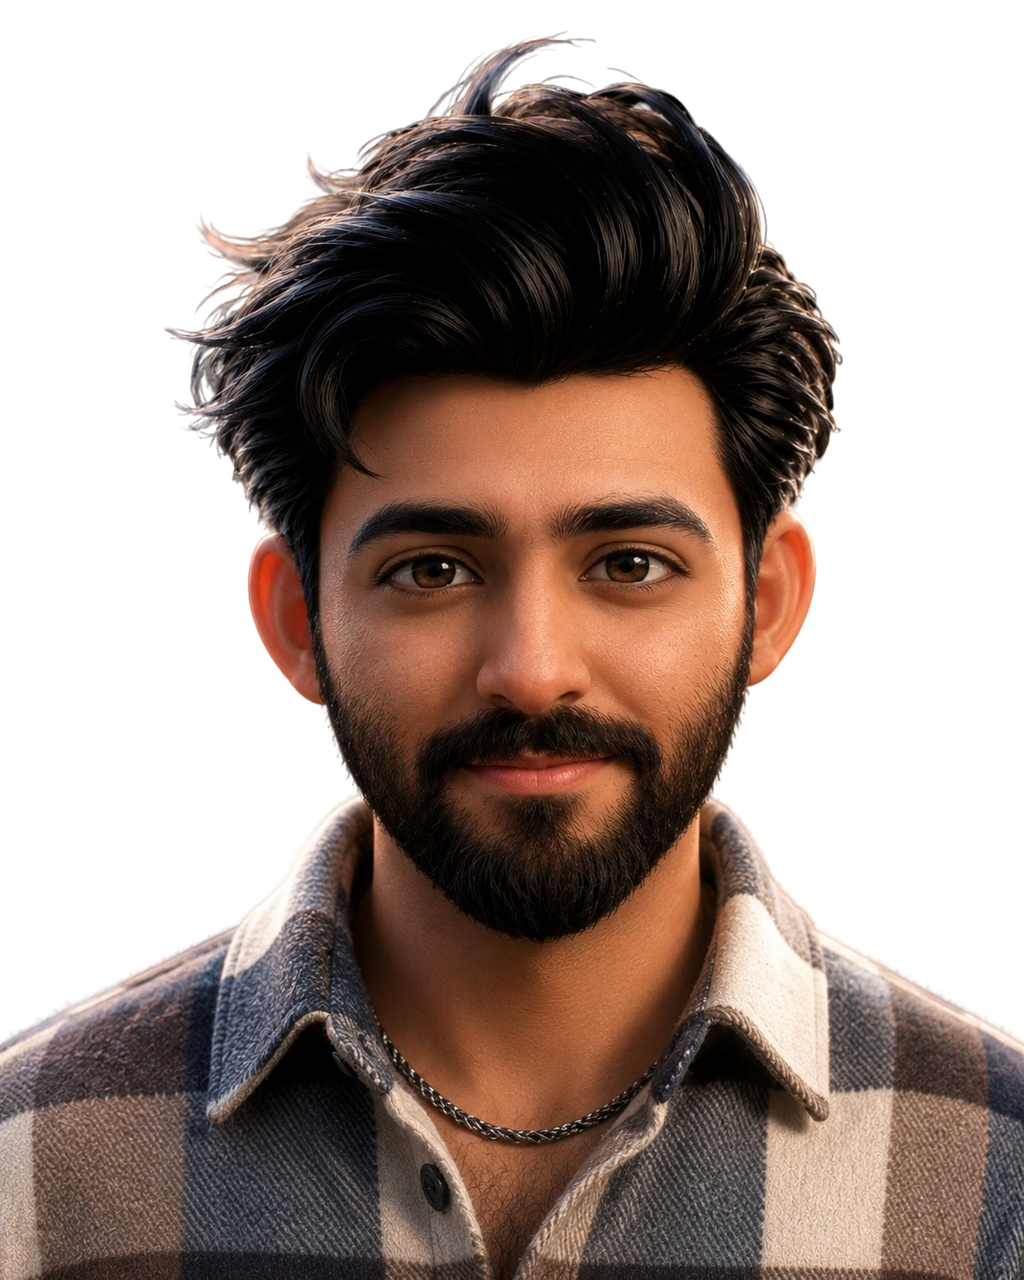
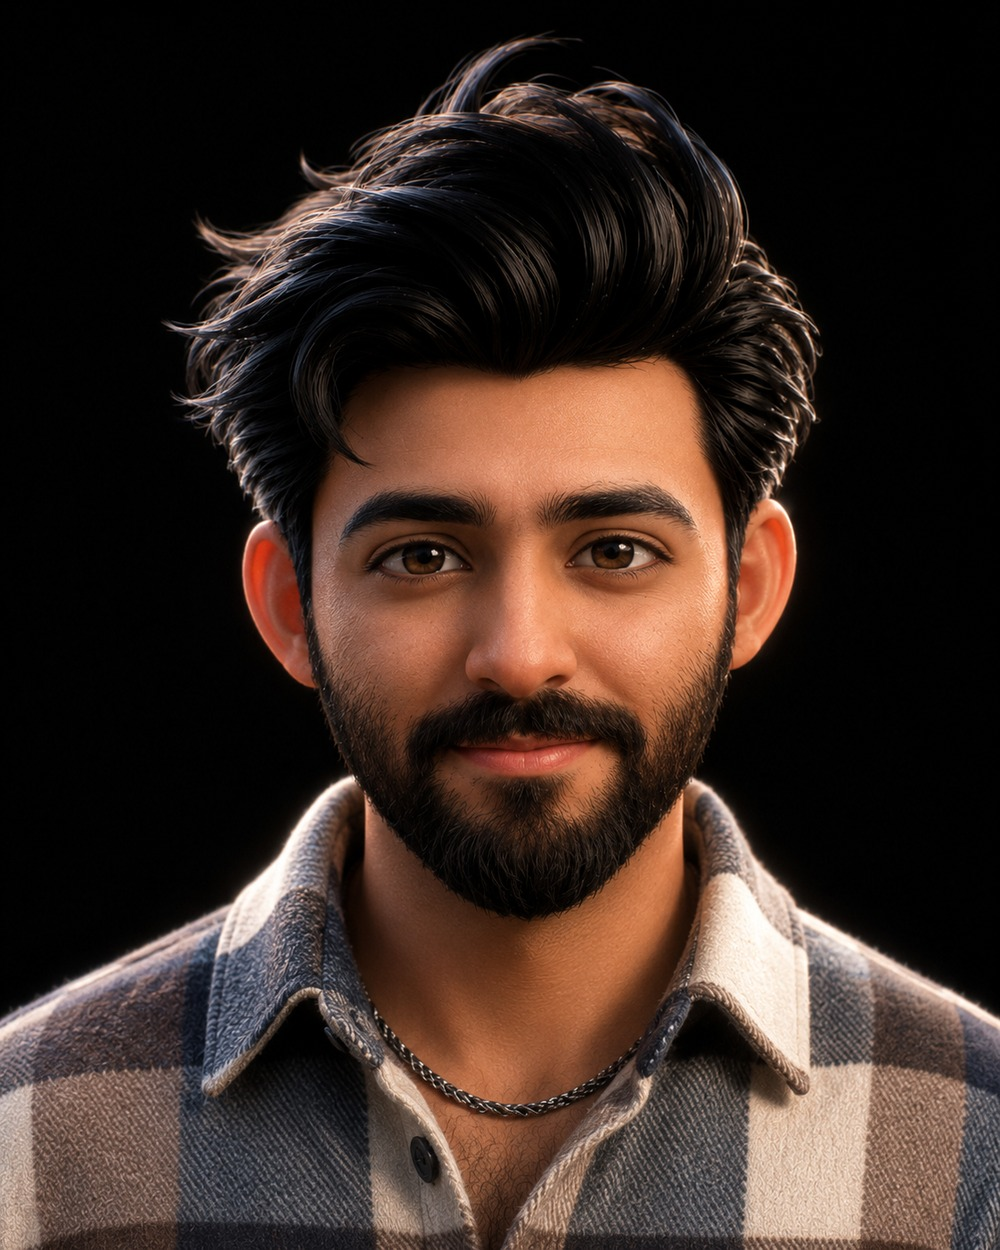
New

diff --git a/src/sections/PublicationsSection.tsx b/src/sections/PublicationsSection.tsx
@@ -1,3 +1,4 @@
+import { ArrowUpRight } from 'lucide-react'
 import FadeIn from '../components/FadeIn'
 import { publications } from '../data/content'
 
@@ -31,9 +32,27 @@ export default function PublicationsSection() {
             </div>
 
             <div className="flex-1">
-              <h3 className="text-[#D7E2EA] font-medium leading-snug text-base sm:text-lg">
-                {pub.title}
-              </h3>
+              {pub.link ? (
+                <a
+                  href={pub.link}
+                  target="_blank"
+                  rel="noopener noreferrer"
+                  className="group/link inline-flex items-start gap-1.5 text-[#D7E2EA] font-medium leading-snug text-base sm:text-lg hover:text-white transition-colors"
+                >
+                  <span className="underline decoration-[#D7E2EA]/25 underline-offset-4 group-hover/link:decoration-[#D7E2EA]">
+                    {pub.title}
+                  </span>
+                  <ArrowUpRight
+                    size={18}
+                    strokeWidth={2}
+                    className="mt-1 shrink-0 opacity-60 group-hover/link:opacity-100"
+                  />
+                </a>
+              ) : (
+                <h3 className="text-[#D7E2EA] font-medium leading-snug text-base sm:text-lg">
+                  {pub.title}
+                </h3>
+              )}
               <p className="text-[#D7E2EA]/70 font-light italic mt-1 text-sm sm:text-base">
                 {pub.venue}
               </p>

diff --git a/src/data/content.ts b/src/data/content.ts
@@ -108,10 +108,11 @@ export const projects: Project[] = [
     name: 'Porous Lattices for Implants',
     category: 'Research Collaboration',
     description:
-      'Systematic review of porous and lattice structures for implants — design for AM, porosity, osseointegration, and material selection (Ti-6Al-4V, NiTi).',
+      'Scoping review of lattice and TPMS architectures for dental implants — design, manufacturing, and performance. Protocol accepted and registered on OSF.',
     col1: ['/thesis/lattice-array.jpg', '/thesis/ebsd.jpg'],
     col2: '/thesis/void-fraction.jpg',
-    linkLabel: 'In Progress',
+    link: 'https://doi.org/10.17605/OSF.IO/UMBVD',
+    linkLabel: 'View Protocol',
   },
   {
     num: '04',
@@ -235,6 +236,7 @@ export type Publication = {
   title: string
   venue: string
   meta: string
+  link?: string
 }
 
 export const publications: Publication[] = [
@@ -244,6 +246,7 @@ export const publications: Publication[] = [
       'Experimental and numerical crushing analysis of a novel multibody thin-walled circular tube under axial impact loading',
     venue: 'International Journal of Applied Mechanics',
     meta: 'Mozafari, Azarandaz, Darijani & Shahsavari · 2022 · 14(09), 2250042',
+    link: 'https://www.worldscientific.com/doi/10.1142/S1758825122500429',
   },
   {
     type: 'Conference',
@@ -251,6 +254,14 @@ export const publications: Publication[] = [
       'A Comparative Multi-Method Study of Uniform and Graded TPMS Lattices Fabricated via Additive Manufacturing',
     venue: '4th International Online Conference on Materials, MDPI',
     meta: '2025',
+  },
+  {
+    type: 'Protocol',
+    title:
+      'Lattice and TPMS Architectures for Dental Implants: A Scoping Review of Design, Manufacturing, and Performance',
+    venue: 'OSF Registries — accepted protocol',
+    meta: 'DOI: 10.17605/OSF.IO/UMBVD',
+    link: 'https://doi.org/10.17605/OSF.IO/UMBVD',
   },
   {
     type: 'In Preparation',

diff --git a/src/sections/ProjectsSection.tsx b/src/sections/ProjectsSection.tsx
@@ -31,7 +31,7 @@ function Card({
   const scale = useTransform(progress, range, [1, targetScale])
 
   return (
-    <div className="sticky top-24 md:top-32 h-[85vh] flex items-center justify-center">
+    <div className="sticky top-24 md:top-32 h-[85vh] flex items-start justify-center">
       <motion.div
         style={{
           scale,